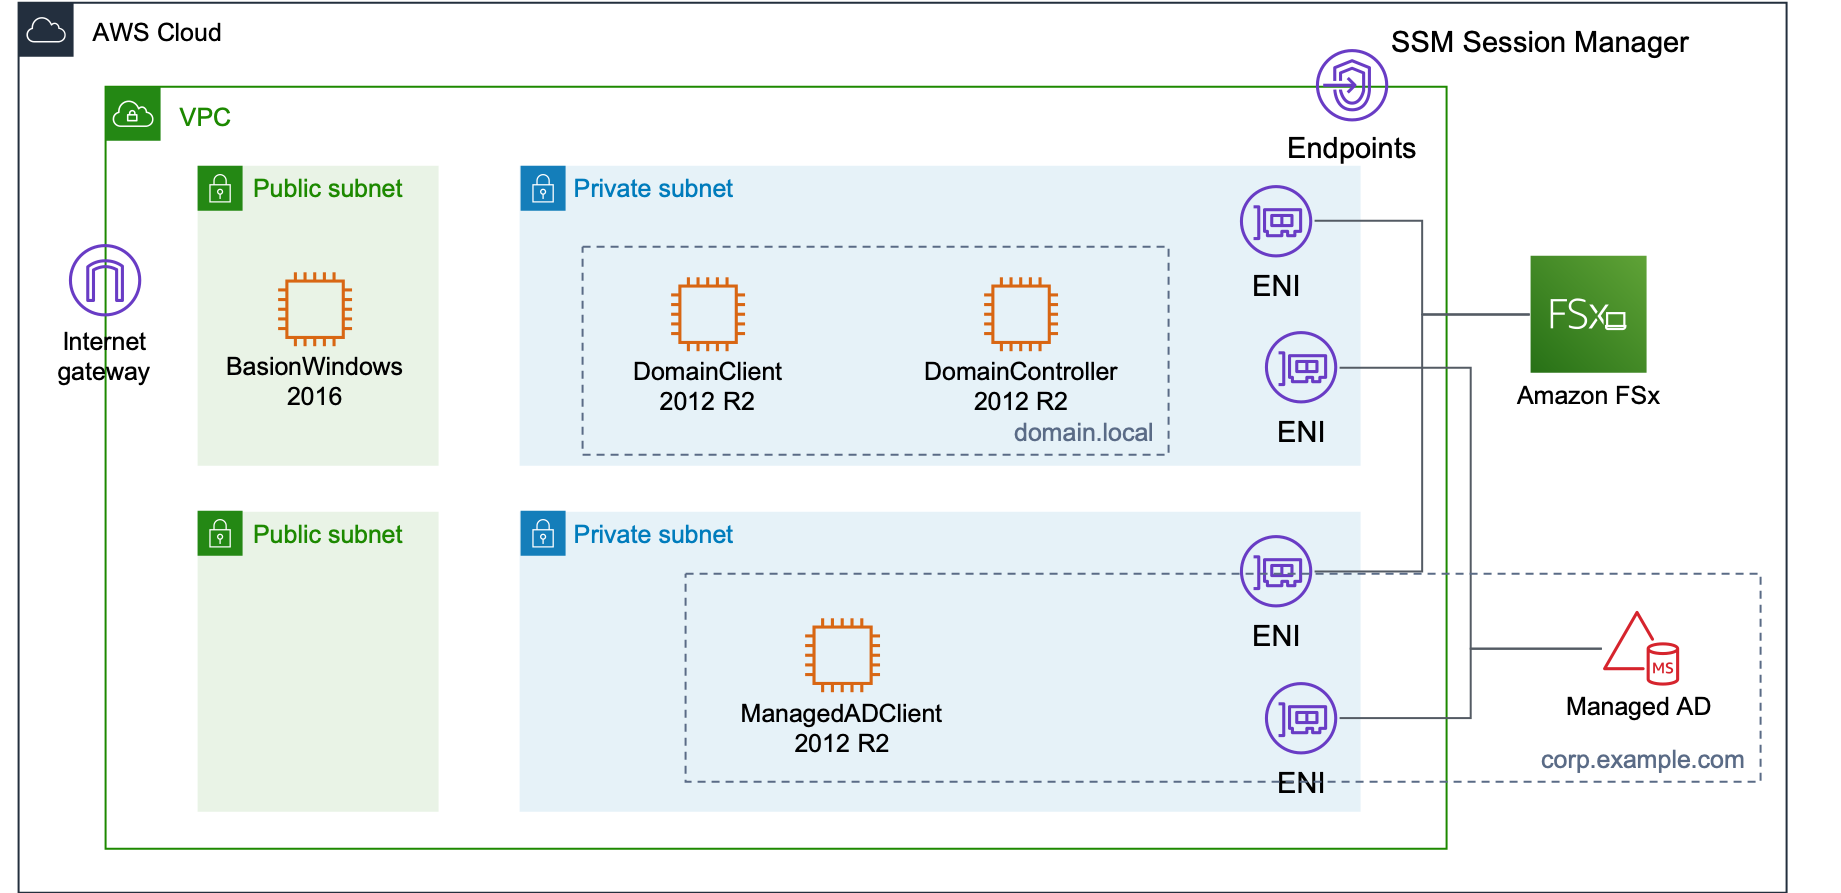
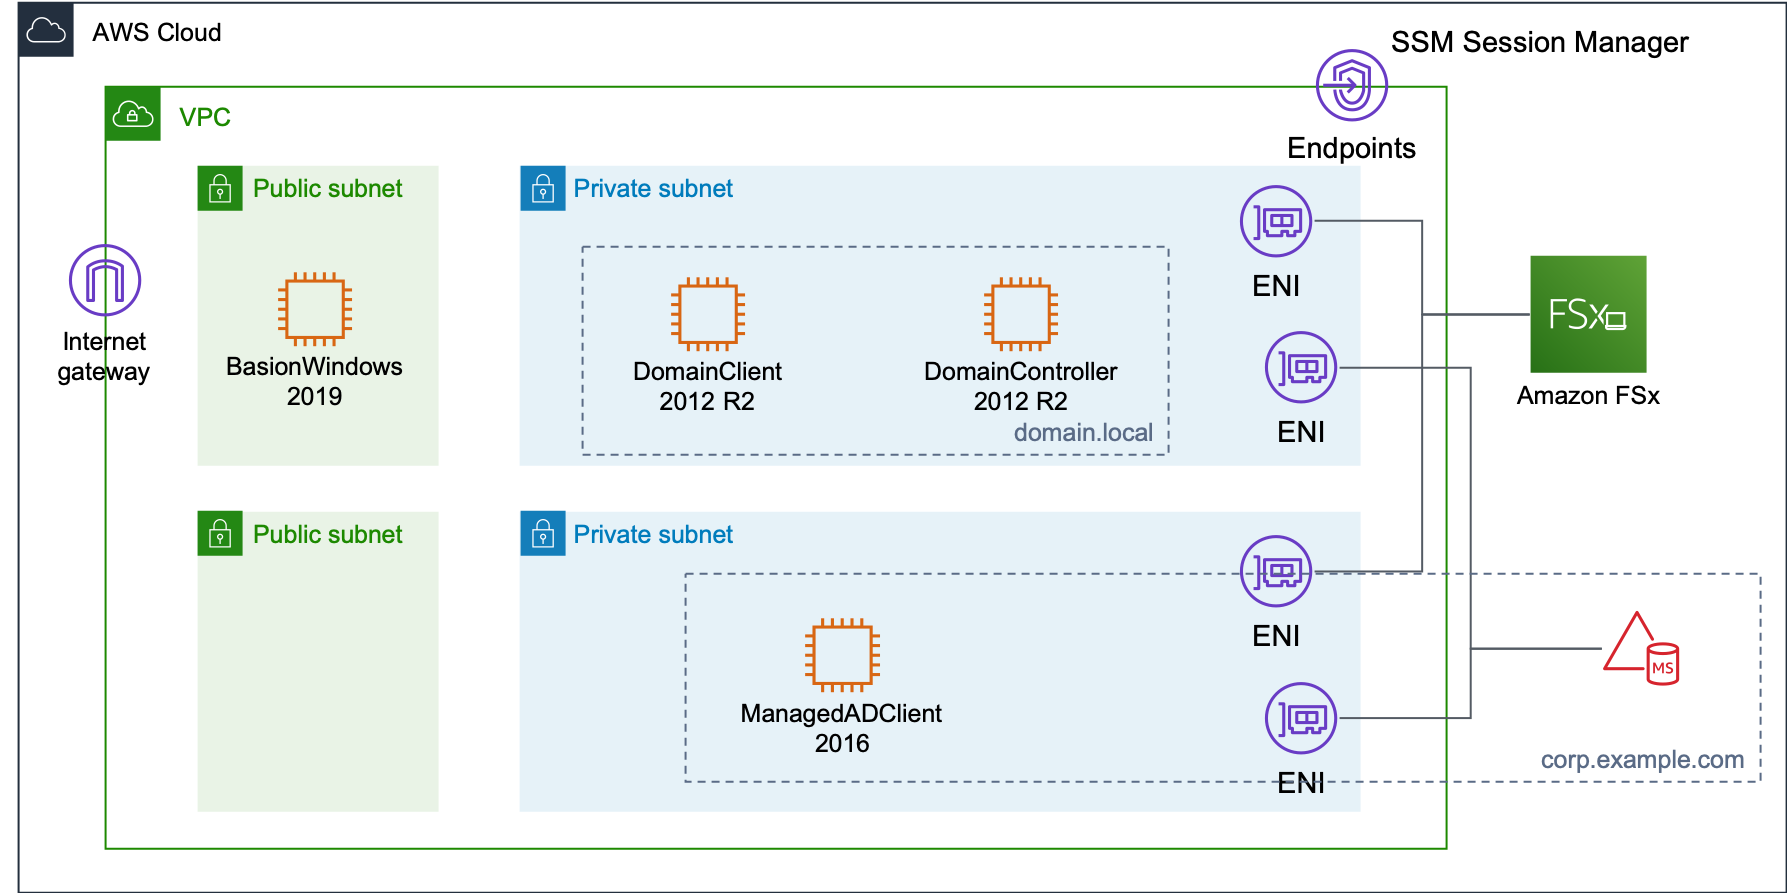
update

diff --git a/cdksample/fsx_stack.py b/cdksample/fsx_stack.py
@@ -14,20 +14,42 @@ class FSxStack(core.Stack):
         internal_sg = props['internal_sg']
         managed_ad = props['managed_ad']
 
-        # FSxその1
-        fs1 = fsx.CfnFileSystem(
-            self, 'FileSystem1',
+        # domain.localに接続するFSx
+        local_domain_fs = fsx.CfnFileSystem(
+            self, 'LocalDomainFileSystem',
             file_system_type='WINDOWS',
             subnet_ids=vpc.select_subnets(subnet_type=ec2.SubnetType.ISOLATED).subnet_ids,
             security_group_ids=[internal_sg.security_group_id],
             storage_capacity=100,
             windows_configuration={
-                "activeDirectoryId": managed_ad.ref,
+                "selfManagedActiveDirectoryConfiguration": {
+                    "dnsIps": [
+                        self.node.try_get_context('local_domain_controller_ip')
+                    ],
+                    "domainName": "domain.local",
+                    "userName": "Administrator",
+                    "password": self.node.try_get_context('local_domain_admin_password')
+                },
                 "deploymentType": "MULTI_AZ_1",
                 "preferredSubnetId": vpc.select_subnets(subnet_type=ec2.SubnetType.ISOLATED).subnet_ids[0],
                 "throughputCapacity": 8
             }
         )
+
+        # # Managed ADに接続するFSx
+        # managed_ad_fs = fsx.CfnFileSystem(
+        #     self, 'ManagedADFileSystem',
+        #     file_system_type='WINDOWS',
+        #     subnet_ids=vpc.select_subnets(subnet_type=ec2.SubnetType.ISOLATED).subnet_ids,
+        #     security_group_ids=[internal_sg.security_group_id],
+        #     storage_capacity=100,
+        #     windows_configuration={
+        #         "activeDirectoryId": managed_ad.ref,
+        #         "deploymentType": "MULTI_AZ_1",
+        #         "preferredSubnetId": vpc.select_subnets(subnet_type=ec2.SubnetType.ISOLATED).subnet_ids[0],
+        #         "throughputCapacity": 8
+        #     }
+        # )
 
         self.output_props = props.copy()
 

diff --git a/app.py b/app.py
@@ -20,11 +20,11 @@ props = dict()
 network_stack = NetworkStack(app, '{}-NetworkStack'.format(prefix), env=env, props=props)
 props = network_stack.outputs
 
-local_domain_stack = LocalDomainStack(app, '{}-LocalDomainStack'.format(prefix), env=env, props=props)
-props = local_domain_stack.outputs
-
 bastion_windows_stack = BastionStack(app, '{}-BastionStack'.format(prefix), env=env, props=props)
 props = bastion_windows_stack.outputs
+
+local_domain_stack = LocalDomainStack(app, '{}-LocalDomainStack'.format(prefix), env=env, props=props)
+props = local_domain_stack.outputs
 
 managed_ad_stack = ManagedADStack(app, '{}-ManagedADStack'.format(prefix), env=env, props=props)
 props = managed_ad_stack.outputs

diff --git a/cdksample/managed_ad_stack.py b/cdksample/managed_ad_stack.py
@@ -30,7 +30,7 @@ class ManagedADStack(core.Stack):
         mad_client_windows = ec2.Instance(
             self, 'ManagedADClientWindows',
             instance_type=ec2.InstanceType('t3.large'),
-            machine_image=ec2.WindowsImage(version=ec2.WindowsVersion.WINDOWS_SERVER_2012_R2_RTM_JAPANESE_64BIT_BASE),
+            machine_image=ec2.WindowsImage(version=ec2.WindowsVersion.WINDOWS_SERVER_2016_JAPANESE_FULL_BASE),
             key_name=self.node.try_get_context('key_name'),
             vpc=vpc,
             vpc_subnets=ec2.SubnetSelection(subnet_type=ec2.SubnetType.ISOLATED),

diff --git a/cdksample/bastion_stack.py b/cdksample/bastion_stack.py
@@ -21,7 +21,7 @@ class BastionStack(core.Stack):
         bastion_windows = ec2.Instance(
             self, 'BastionWindows',
             instance_type=ec2.InstanceType('t3.large'),
-            machine_image=ec2.WindowsImage(version=ec2.WindowsVersion.WINDOWS_SERVER_2016_JAPANESE_FULL_BASE),
+            machine_image=ec2.WindowsImage(version=ec2.WindowsVersion.WINDOWS_SERVER_2019_JAPANESE_FULL_BASE),
             key_name=self.node.try_get_context('key_name'),
             vpc=vpc,
             vpc_subnets=ec2.SubnetSelection(subnet_type=ec2.SubnetType.PUBLIC),

diff --git a/README.md b/README.md
@@ -1,9 +1,11 @@
 # FSx-PoC-Environment
 
 #### インフラ構成
+
 ![](architecture1.png)
 
 #### Active Directory構成
+
 ![](architecture2.png)
 
 ## 関連ドキュメント
@@ -82,10 +84,10 @@ CDKが使用するバケットを作成します。
 cdk bootstrap
 ```
 
-VPC、踏み台Windowsホスト、MicrosoftADをデプロイします。
+FSx以外のリソースをデプロイします。
 
 ```
-cdk deploy *Stack --require-approval never
+cdk deploy *NetworkStack *BastionStack *LocalDomainStack *ManagedADStack --require-approval never
 ```
 
 ## domain.local
@@ -149,7 +151,7 @@ Get-NetAdapter | Set-DnsClientServerAddress -ServerAddresses <ドメインコン
 Get-NetAdapter | Get-DnsClientServerAddress
 ```
 
-ADに参加します。
+ADに参加します。ここで入力するパスワードはマネージメントコンソールでLocalDomainControllerWindowsインスタンスの「接続」から確認します。
 
 ```
 $user = 'domain.local\Administrator'
@@ -175,7 +177,7 @@ aws ds describe-directories | \
   jq -r '.DirectoryDescriptions[] | select( .Name == "corp.example.com" ) | .DnsIpAddrs[]'
 ```
 
-RDPで踏み台Windowsに接続し、PowerShellを起動します。あるいは、セッションマネージャーでPowerShellを起動します。
+踏み台サーバーを経由してクライアント用のWindowsにRDPし、PowerShellを起動します。あるいは、セッションマネージャーでPowerShellを起動します。
 
 AD管理に必要なツールをPowerShellでインストールします。
 
@@ -194,7 +196,7 @@ Get-NetAdapter | Set-DnsClientServerAddress -ServerAddresses <1つ目のIPアド
 Get-NetAdapter | Get-DnsClientServerAddress
 ```
 
-ADに参加します。`cdk.context.json`に記載したパスワードを入力します。
+ADに参加します。`cdk.context.json`に記載したManaged ADのパスワードを入力します。
 
 ```
 $user = 'corp.example.com\Admin'
@@ -209,3 +211,10 @@ Add-Computer -DomainName corp.example.com -Credential $Credential
 Restart-Computer -Force
 ```
 
+## FSxのデプロイ
+
+FSxリソースをデプロイします。
+
+```
+cdk deploy *FSxStack --require-approval never
+```
